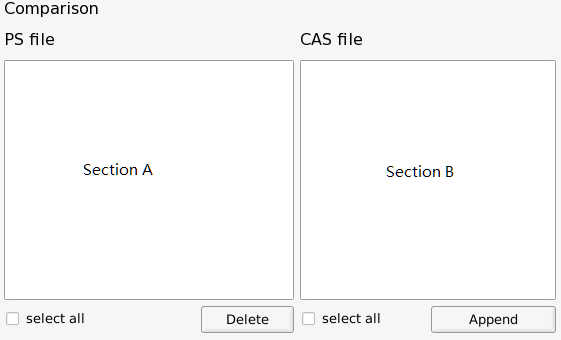
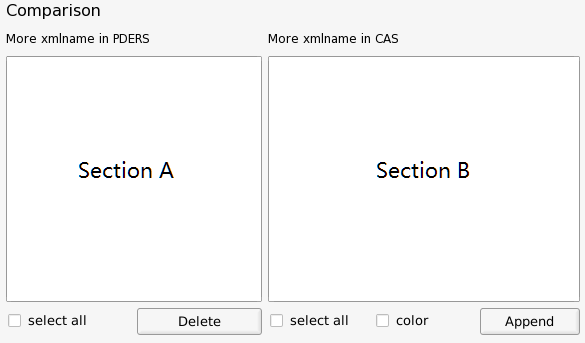
20171109 MANUAL update.

diff --git a/MANUAL.md b/MANUAL.md
@@ -72,9 +72,27 @@ A configuration file located in the same directory of **Excel Operator.exe**.
 [setup]
 MAX_ROW:1000
 COLOR=Orange
+CAS_NAME_FILTER=cas
+PDERS_NAME_FILTER=ps
 ```
 ### Usage
 1. Change **MAX_ROW** to limit the max row read by program while loading the worksheet.  
+The value will be set to 1000 if **MAX_ROW** is missing or illegal in **setup.ini**.  
+  Default value:1000  
+
 2. Change **COLOR** to set the color which will be used to fill up the cell.  
-  Optional color:
-**White**, **Black**, **Gray-25%**, **Blue-Gray**, **Blue**, **Orange**, **Gray-50%**, **Gold**, **Blue2**, **Green**.
+  This item shoud only be set as one of the optional values listed below. Illegal value will be rejected and replaced by default value.  
+  Optional value:
+**White**, **Black**, **Gray-25%**, **Blue-Gray**, **Blue**, **Orange**, **Gray-50%**, **Gold**, **Blue2**, **Green**.  
+  Default value:
+**Orange**
+
+3. Change **CAS_NAME_FILTER** to set CAS file name constraint.(case insensitive)   
+If this item has been set to a specific string, then only those files whose name contains the specific string could be opened as CAS file.  
+The specific string will be set to 'cas' if the **CAS_NAME_FILTER** is missing in **setup.ini**.  
+Default value:cas
+
+4. Change **PDERS_NAME_FILTER** to set PDERS file name constraint.(case insensitive)   
+If this item has been set to a specific string, then only those files whose name contains the specific string could be opened as PDERS file.  
+The specific string will be set to 'ps' if the **PDERS_NAME_FILTER** is missing in **setup.ini**.  
+Default value:ps
